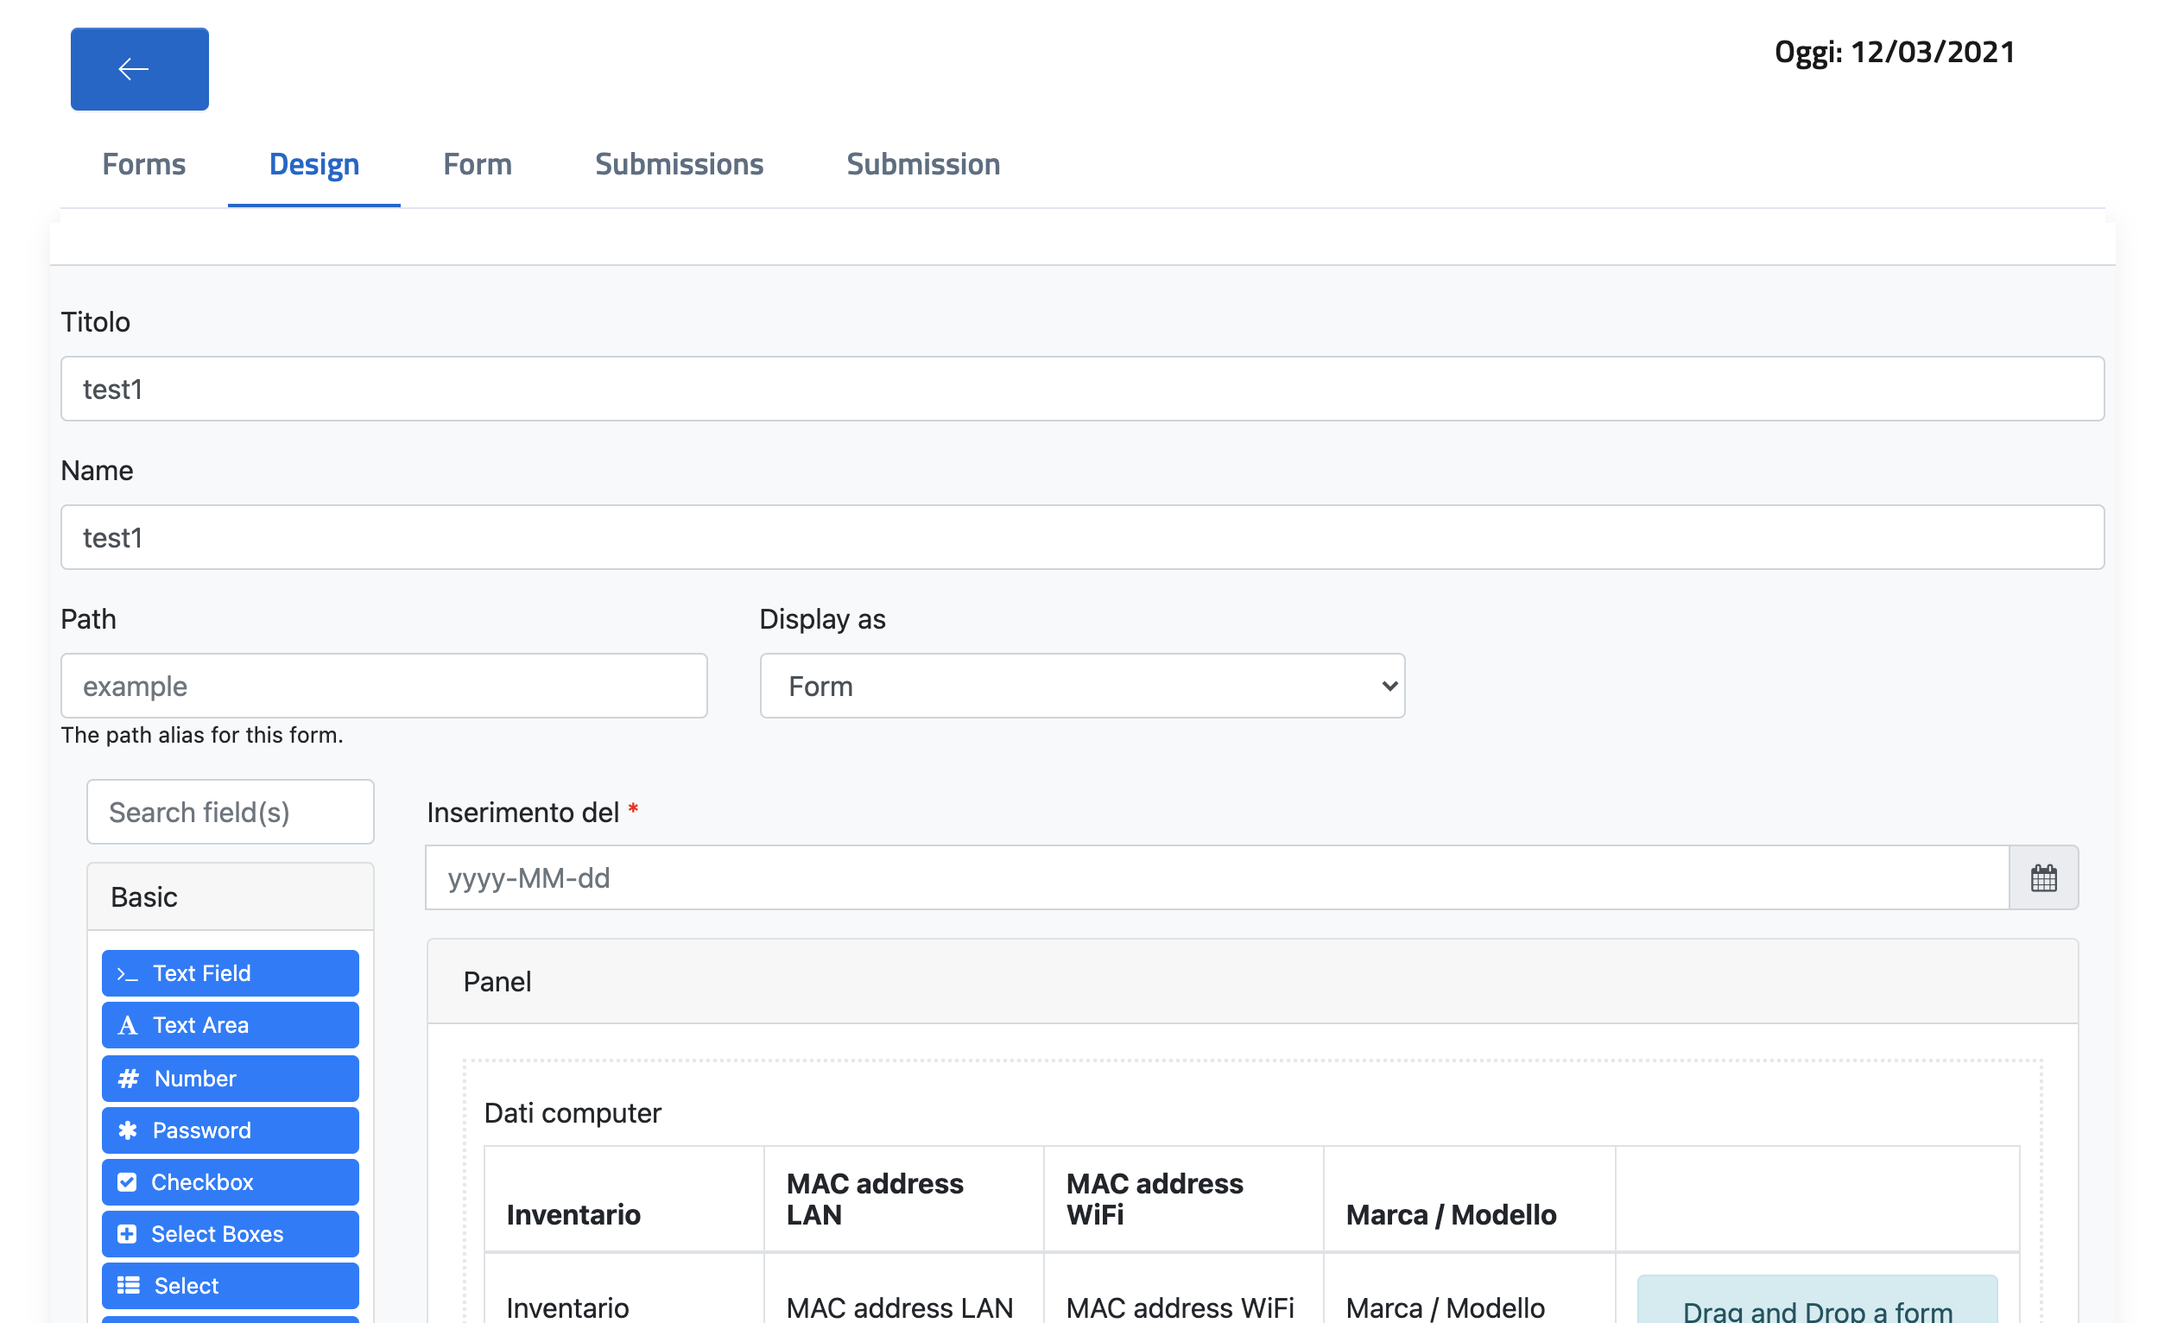
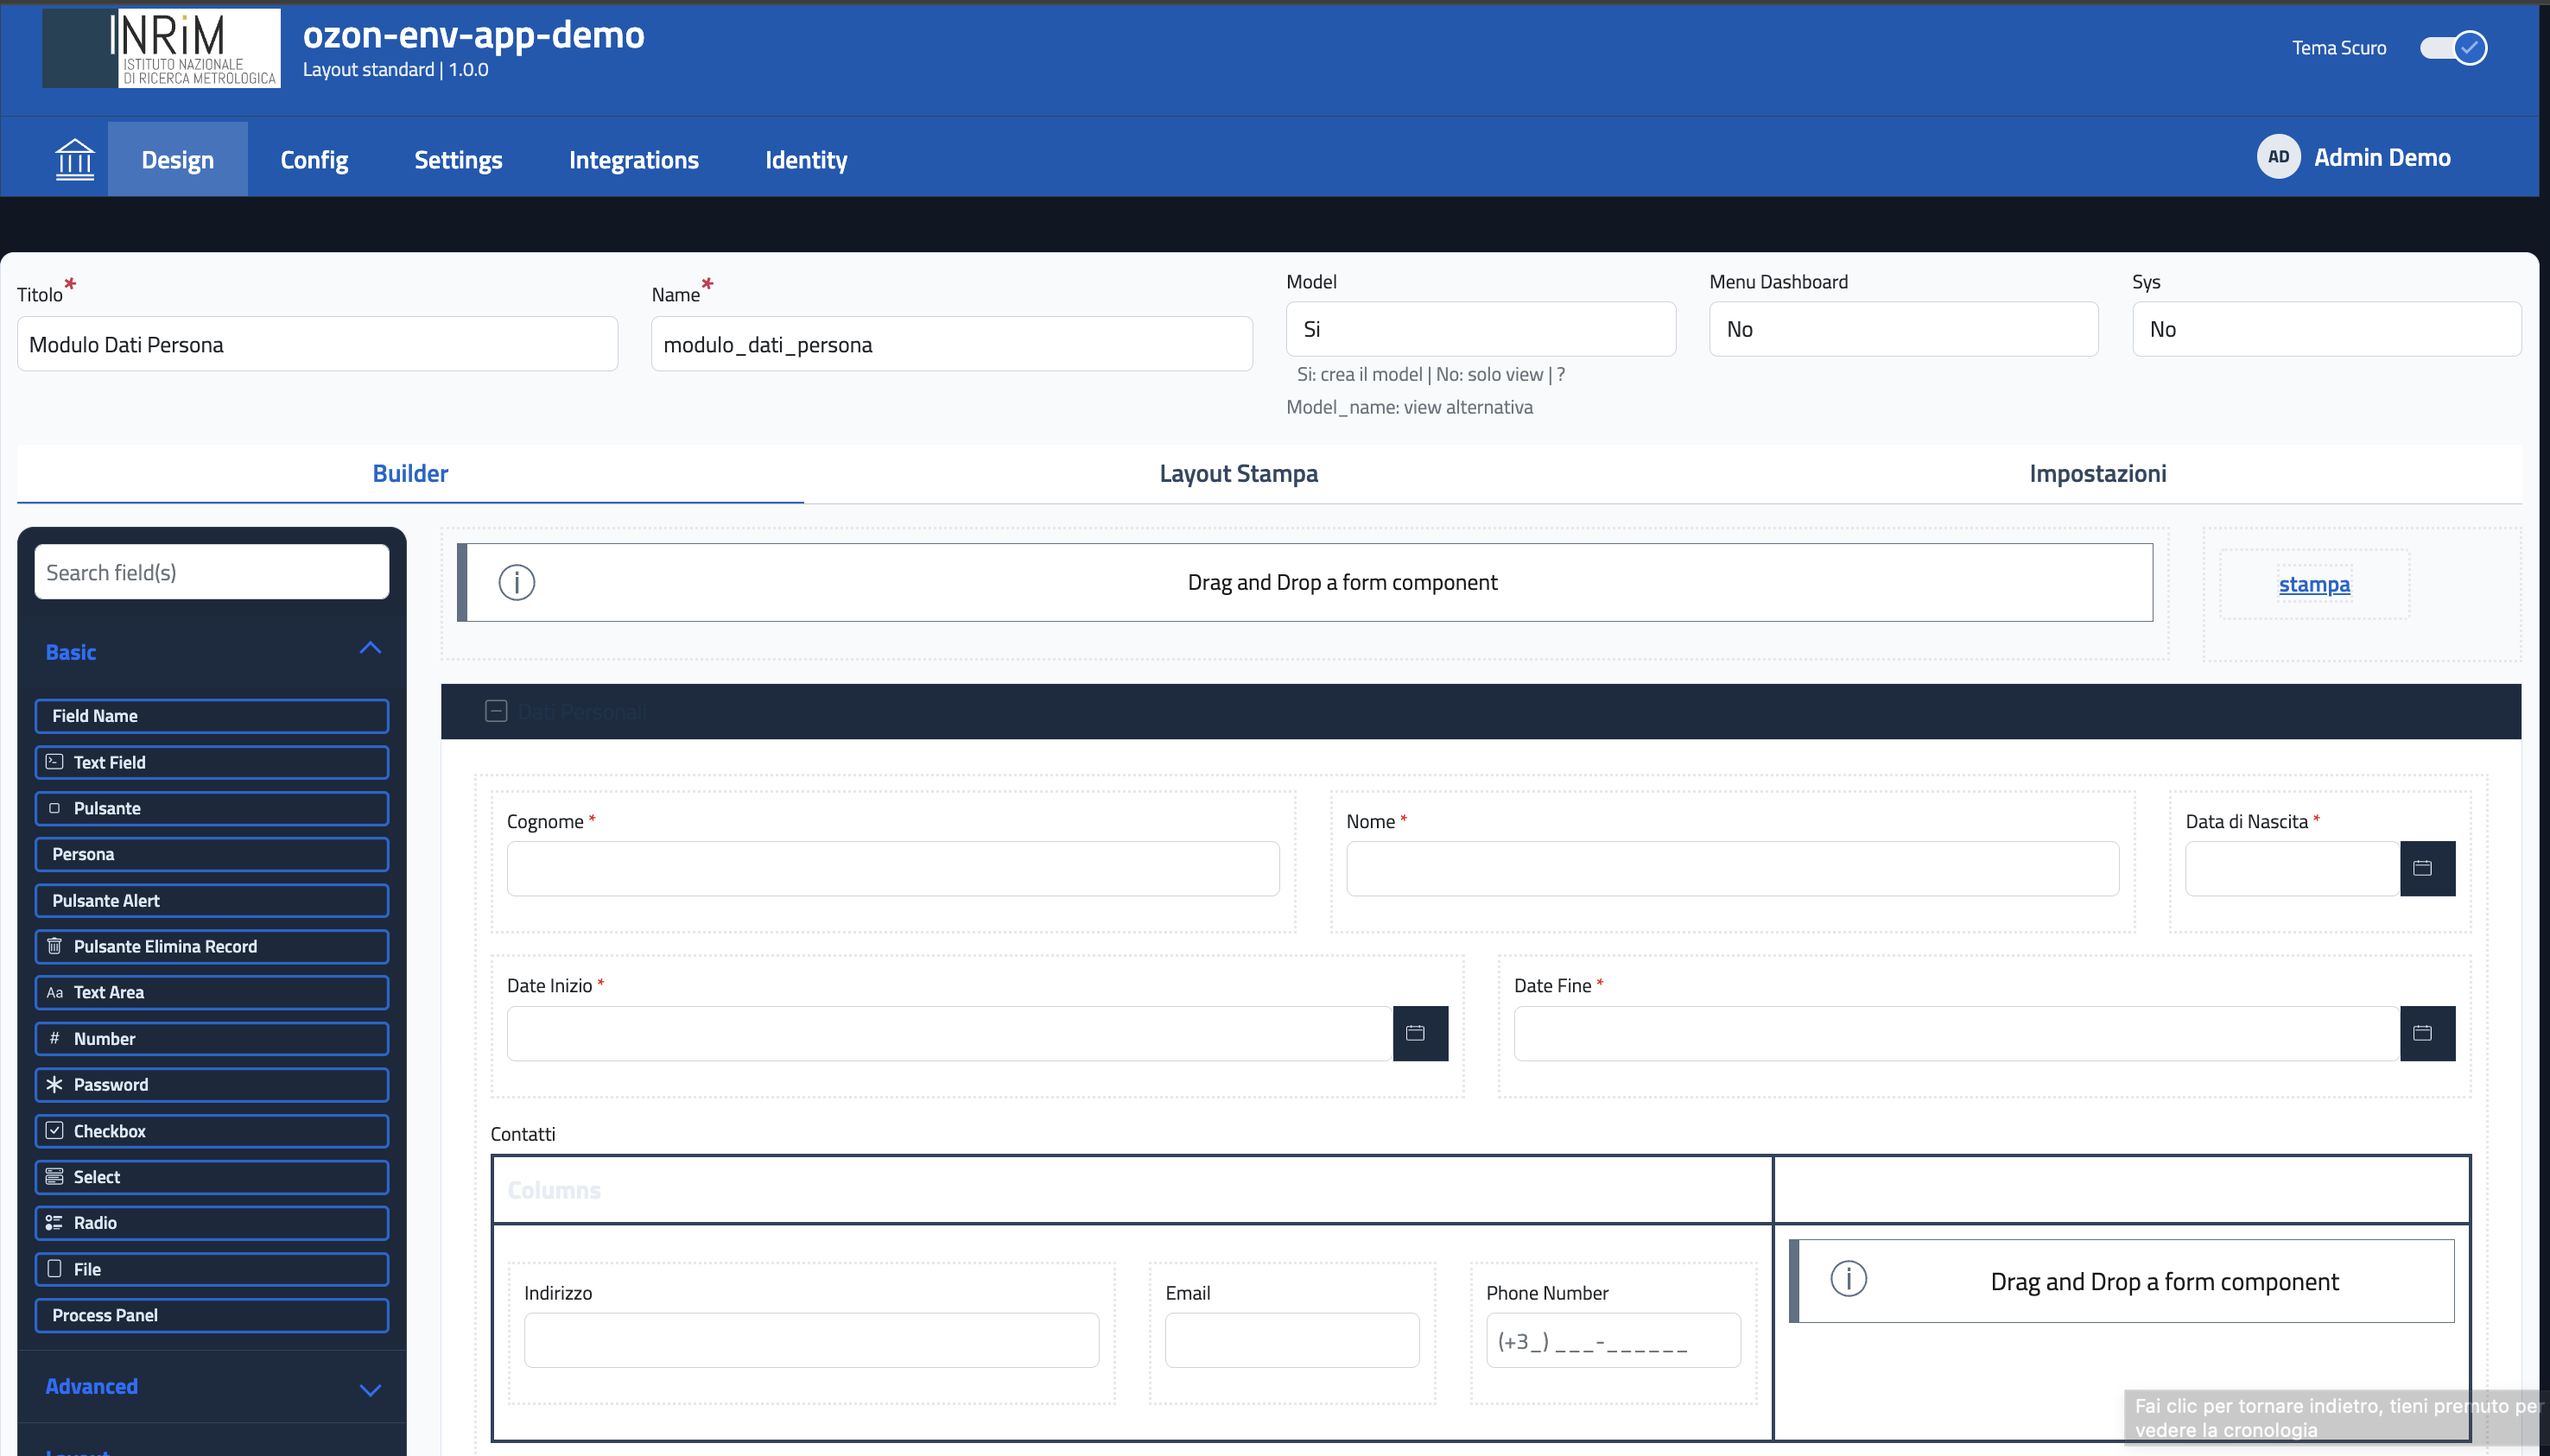
[IMP] gallery and README

diff --git a/README.md b/README.md
@@ -58,6 +58,25 @@ Override utili (env):
 Utenti demo (realm Keycloak `backend`), **username = password**: `admin`,
 `user`, `operator`, `manager`.
 
+## Screenshot
+
+Dashboard: la card del form arriva gia' pronta col plugin `demo`, senza
+passare dal builder.
+
+![Dashboard con la card "Modulo Dati Persona"](gallery/dashboard.png)
+
+Builder drag&drop (formio.js): la form si disegna trascinando i campi.
+
+![Form builder](gallery/design.png)
+
+Compilazione della form, tema chiaro.
+
+![Inserimento dati](gallery/enter_data.png)
+
+Stessa form in tema scuro, con la validazione dei campi.
+
+![Modifica dati e validazione](gallery/view_edit_data.png)
+
 ## Struttura
 
 ```
@@ -75,7 +94,7 @@ demo/
 ├── clean_demo.sh             pulizia totale
 └── tests/                    test dello script di provisioning
 service-app/                  checkout di INRIM/service-app (clonato qui, gitignorato)
-gallery/                      screenshot
+gallery/                      screenshot usati in questo README
 ```
 
 Dettagli su architettura, login BFF/Keycloak e porting del plugin:
